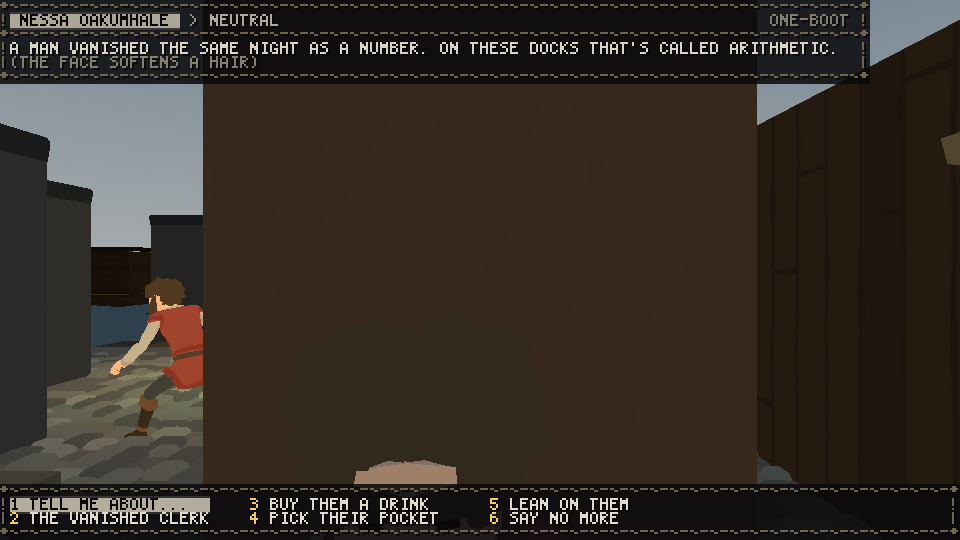
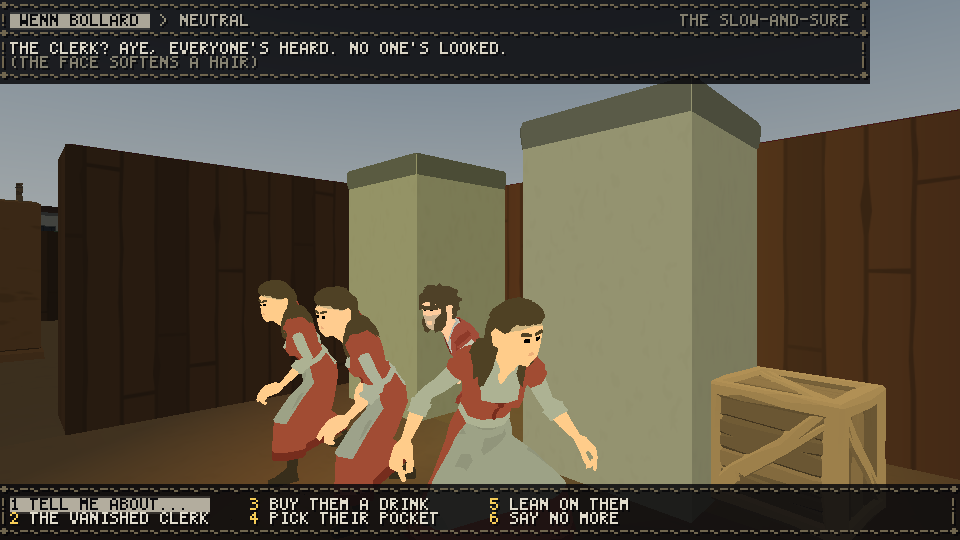
wip(voice): the six frames reshot off the gated b18c58de exe, and the README's honest bound rewritten from the numbers -- what the two declared defects actually were, what composes the shots now, and the two population moves (the crowd through the player, the ward hold) left declared for the lane th

diff --git a/docs/frames/voice/README.md b/docs/frames/voice/README.md
@@ -1,10 +1,13 @@
 # The street talks
 
 Every frame in here is the real `dist\granadad.exe` on the gated Windows build (branch
-`lane/voice`, commit `36411ac4`), playing the voice channel through the real verbs. Nothing
-is staged. Each run prints a summary line next to the picture
-(`voice end=... beats=n/N ... key=... speaker="..." row="..."`) and the exact line that shot
-each frame is in the table. A run that fell short says so and can't pass as one that didn't.
+`lane/voice`, commit `b18c58de`, with wip's street senses, kit and pull pack merged under it),
+playing the voice channel through the real verbs. Nothing is staged. Each run prints a summary
+line next to the picture (`voice end=... beats=n/N ... key=... speaker="..." row="..."
+inview=yes|no apart=T.T`) and the exact line that shot each frame is in the table. A run that
+fell short says so and can't pass as one that didn't. `inview` is the frame's own proof: the
+body the frame is about is inside the field of view at the shutter, with a clear lens line and
+nobody drawn in the way; `apart` is how far off it is, in tiles. The suite pins both.
 
 You said it on the 10th. "I'd expect the watch and crowd to react appropriately to the violence
 they're witnessing." And the Oblivion thing where talking to somebody feels like talking to a
@@ -22,12 +25,12 @@ commit `fdbd177b`). They aren't part of this set and they weren't reshot.
 
 | frame | line | what it shows |
 | --- | --- | --- |
-| `voice-pass-960x540.png` | `--voice=pass` | A serf walks by on the Tarwalk at four in the afternoon. The smoke's own walk west from the spawn until somebody passes within talk reach, then the walk turns to look at her. `PETRA BARNACRE: CRANE LINE IS MOVING. STAND CLEAR OF IT.` sits on the voice row above the health bar, her name in the body accent and the row in dim ink, on one plate. Nobody pressed E. The crosshair still names her (`PETRA BARNACRE  SERF  E - TALK`) so the line and the prompt agree on who spoke. |
-| `voice-overheard-960x540.png` | `--voice=overheard` | Two bodies talking to each other, overheard from the street. Held at the spawn, then walked, until two people standing together within six tiles and a sight line get heard, and the walk turns to look at them. Three serfs by the Eel-Pots, and one side of the exchange in the speaker's own trade. `QUENNA GROYNE: ...BONDSWORN BY THE SPRING IF THE LANES STAY SHUT. MARK ME...` (`overheard.serf`). |
-| `voice-farewell-960x540.png` | `--voice=farewell` | The goodbye. The `--street` placement beside a rope hand, the talk key, then LEAVE by its own topic. The panel closes and `LISBET HEMPSON: GO ON. THE CRANE LINE WILL NOT WAIT FOR EITHER OF US.` is on the voice row (`farewell.serf`). Her greeting has stood down off the alert row, so the goodbye is the last thing she said. |
-| `voice-moved-960x540.png` | `--voice=moved` | The worded reaction. Same placement, then THE VANISHED CLERK heard out, which warms her a hair. The panel's dateline row reads `(THE FACE SOFTENS A HAIR)` under her reply, dim, for four seconds. Never a number. She holds still and faces you for the talk. |
-| `voice-react-960x540.png` | `--voice=react` | A witness to a tap in the Gull at eight. Walk to the bar, tap the nearest patron until it connects (the `--punch` beat), and the room says what it saw. The one you hit joins the fight on the alert row in his own words (`brawl.join`, from the feel build). A patron who saw it (the sim's three clause witness rule put `Struck` on his memory) speaks on the voice row in his own trade's mouth. `CAPTAIN IVO WAKE: KNIVES CHECKED AT THE DOOR, AND STILL THIS.` (`react.maritime.struck`). The shot turns to the witness. Bouncers never take this row, their ladder speaks for them. |
-| `voice-watch-960x540.png` | `--voice=watch` | The Watch approach readback. The feel build's `--watch-halt=halt` line up to the halt (steel up in Cull's sight, a swing at a patron, Cull Closing on VIOLENCE with `watch.halt` on the alert row), then his next word on the voice row a breath later as he crosses the room. `WATCHMAN CULL: PUT YOUR HANDS DOWN. DOWN. I WILL NOT SAY IT A THIRD TIME.` (`watch.approach.violence`). The halt is still up under it. It's the halt, extended. |
+| `voice-pass-960x540.png` | `--voice=pass` | A serf walks by on the Tarwalk at four in the afternoon. The smoke's own walk west from the spawn until somebody passes within talk reach, then the walk turns to look at her. `PETRA BARNACRE: QUARTER-DAY'S KINGSDAY. DON'T REMIND ME.` sits on the voice row above the health bar, her name in the body accent and the row in dim ink, on one plate. Nobody pressed E. The crosshair still names her (`PETRA BARNACRE  SERF  E - TALK`) so the line and the prompt agree on who spoke. |
+| `voice-overheard-960x540.png` | `--voice=overheard` | Two bodies talking to each other, overheard from the street. Held at the spawn, then walked, until two people standing together within six tiles and a sight line get heard, and the walk turns to look at them. A pair of serfs by the sacks on the Tarwalk, and one side of the exchange in the speaker's own trade. `JESSA GUTTERLINE: ...NO SHIPMENTS, NO SHIFTS. NO SHIFTS, NO PENNY. THAT'S THE SUM...` (`overheard.serf`). |
+| `voice-farewell-960x540.png` | `--voice=farewell` | The goodbye. The `--street` placement by a rope hand at her pitch on the Quayside, the talk key, then LEAVE by its own topic. The panel closes and `WENN BOLLARD: BACK TO THE ROPES. MIND THE PLANKS.` is on the voice row (`farewell.serf`). Her greeting has stood down off the alert row, so the goodbye is the last thing she said. She is two and three quarter tiles off, head and shoulders in the frame, her crew at the pitch behind her, nobody in the lens. |
+| `voice-moved-960x540.png` | `--voice=moved` | The worded reaction. Same placement, then THE VANISHED CLERK heard out, which warms her a hair. The panel's dateline row reads `(THE FACE SOFTENS A HAIR)` under her reply, dim, for four seconds. Never a number. She is standing at her post because that is her work, not because the talk holds her: the WardActor hold is still deferred (below). |
+| `voice-react-960x540.png` | `--voice=react` | A witness to a tap in the Gull at eight. Walk to the bar, tap the nearest patron until it connects (the `--punch` beat), and the room says what it saw. The one you hit joins the fight on the alert row in his own words (`brawl.join`, from the feel build). A patron who saw it (the sim's three clause witness rule put `Struck` on his memory) speaks on the voice row in his own trade's mouth. `CAPTAIN IVO WAKE: STEADY. STEADY. THAT'S A PERSON, NOT A BALE.` (`react.maritime.struck`). The shot turns to the witness, three tiles off in the middle of the frame. Bouncers never take this row, their ladder speaks for them. |
+| `voice-watch-960x540.png` | `--voice=watch` | The Watch approach readback, and the reveal. Into the Gull at eleven, across the taproom from Cull's stool -- five tiles, the far end of the row north of the tables, a stand chosen so the lens has him and the floor he will cross -- and the blade drawn (one tap of the Attack key with nobody in reach: steel in a raised hand, cause on its own, no swing). He goes Closing on VIOLENCE with `watch.halt` on the alert row, walks the row at you, and at reach his readback REPLACES the halt: `WATCHMAN CULL: DROP IT. YOU'RE DONE WITH IT, WHETHER YOU KNOW THAT YET OR NOT.` (`watch.approach.violence.steel`, the steel key because steel is up). The lens is on him the step the row lands and again after its fade: he is under three tiles off, centred, coming. STEEL UP on the stance row, the blade across the frame. One man, one line: the halt is gone the step the readback took the row. |
 
 ## The channel
 
@@ -42,7 +45,7 @@ Five channels, ranked. A higher one replaces a lower one on the row. A lower one
 
 | channel | what fires it | keys | cooldown |
 | --- | --- | --- | --- |
-| watch | a watchman's eyes on you crouched or with your hands up, a watchman passing somebody the post has heard of (heat 24 and up) or has paper on, the deference table to a presented Wielder, and the readback as a Closing watchman crosses the room after his halt | `watch.notice` `watch.heat` `watch.paper` `watch.wielder` `watch.approach.<violence\|paper\|goods>` | 5 s on the channel, 20 s per watchman. The readback fires 45 steps after the halt and again at reach |
+| watch | a watchman's eyes on you crouched or with your hands up, a watchman passing somebody the post has heard of (heat 24 and up) or has paper on, the deference table to a presented Wielder, and the readback as a Closing watchman crosses the room after his halt | `watch.notice` `watch.heat` `watch.paper` `watch.wielder` `watch.approach.<violence\|paper\|goods>` | 5 s on the channel, 20 s per watchman. The readback waits for his halt to leave the alert row, or replaces it at reach (two tiles) once the halt has had its second |
 | react | a witness's memory moving with Struck, DrewSteel or Slew on it (`SocialLedger::witness`, read by comparing public state, same shape as `lastPlayerHp_`). Never the man in the fight, never a bouncer (his ladder speaks for him), never the Closing watchman (his halt does) | `react.<family>.<struck\|steel\|slew>` | 4 s on the channel, 15 s per witness. A witness who couldn't get the row keeps the right for 4 s |
 | farewell | LEAVE by its topic, the back key, or walking off past five tiles mid talk | `farewell.<type>.<attitude>` and `farewell.away.<family>` | none, it's an event |
 | pass | the nearest body within two tiles that hasn't spoken to you lately, once | `pass.<type>.<attitude>` | 12 s on the channel, 2 min per mouth |
@@ -80,15 +83,18 @@ met him.
 
 ## The honest bound
 
-Your swing only reaches the Gilded Gull's roster today. WardActor combat sheets are deferred by
-ruling (COMBAT-ACTION-SPEC.md section 10), so a street body has no blow to witness. `react.*` is
-proven on the Gull's witnesses and the street half is declared. The same tables and the same
-emitter fire the day a street body can be hit, which is the STREET SENSES lane's declared
-population move. Two more things aren't built here, said plainly. `watch.notice`, `watch.heat` and
-`watch.paper` are a street watchman's word as you pass, and nothing follows them on the street
-because the street Watch has no arrest by ruling. `rumor.<family>` stocks WHAT THE WARD SAYS in a
-trade's own mouth, but no hashed event ring feeds it yet (roadmap item 17), so it's authored
-breadth, not the world's news. And a third, the critic's own catch: `overheard`'s street bodies
+Your swing reaches a street body now (STREET SENSES leg (b), merged under this lane) and the
+street Watch closes on a blow he sees and arrests at reach (leg (c)) -- and the street's own
+reaction to a blow is that lane's, on the alert row: the scatter, `street.routed`, the watchman's
+`street.halt`. `react.*` on the voice row still reads the Gull's ledger and nothing else: a
+street witness has no memory row for the emitter to compare, so the witness's WORD is proven on
+the Gull's roster and the street half of it is declared, the same tables and the same emitter
+the day the ward carries a ledger. Two more things aren't built here, said plainly.
+`watch.notice`, `watch.heat` and `watch.paper` are a street watchman's word as you pass, before
+anything; what follows on the street is leg (c)'s -- a demand for a raised blade with its grace,
+the close on a blow -- not these rows'. `rumor.<family>` stocks WHAT THE WARD SAYS in a trade's
+own mouth, but no hashed event ring feeds it yet (roadmap item 17), so it's authored breadth, not
+the world's news. And a third, the critic's own catch: `overheard`'s street bodies
 share `paletteOf(sim::WardType)` (`native/src/render/session.cpp`), which colours a coat, trousers
 and skin by TYPE and not by the actor -- three serfs standing together are three copies of the
 same serf. There is no per-body knob to turn; fixing it means threading an actor id through
@@ -96,33 +102,72 @@ same serf. There is no per-body knob to turn; fixing it means threading an actor
 themselves, which is a wider change than a camera-and-placement pass should carry. Declared here
 rather than patched around.
 
-Two more, found by this same critic's round and tried, not fixed. Said plainly rather than
-papered over: **the `watch` showcase's reveal shot.** `voice-watch-960x540.png`'s own line lands
-clean (four beats, the right key, the right words), but the camera turning to Cull as he crosses
-the room can end up looking into a wall-mounted shelf (`render3d/static_pieces.cpp`'s hash-placed
-decor, not in the tile-solidity grid `TileQuery::lineOfSight` reads) instead of at him. A tile-LOS
-wait was tried, then a measured bearing-arc wait in its place; both broke the pinned "ONE MAN, ONE
-LINE" invariant (`test_street_voice.cpp`'s watch case) instead of fixing the shot -- any extra idle
-time between the voice-row event and the turn gives the street a chance to speak through `say()`
-again before the halt's own alert clock this test pins ever reaches zero, confirmed empirically (a
-fresh bark, then a bystander's own `react.*` line, both stepping on state this branch doesn't own)
-rather than assumed. Reverted to firing the turn on the voice-row event alone, which is what the
-suite already holds correct; the reveal shot's own framing stays open for a pass that can afford to
-touch more of the Watch's state machine than a render-side wait can reach.
+Two more the critic's round found, and this pass ran to ground rather than around. Both were
+"the frame is not of the speaker", and both had been tried twice from the camera's side and
+declared. Neither was a camera problem.
 
-**Near-camera clipping at the outdoor "rope hand" placement.** `voice-farewell`, `voice-moved`, and
-(less severely) `voice-pass` all place the camera on a working stretch of the Tarwalk where dockers
-walk close together -- a second body's head can pass close enough to the lens to fill the bottom of
-the frame. A two-pass crowding filter at PLACEMENT time (`standTileIsCrowded`, rejects a stand tile
-with another visible body within a tile of it) and a re-aim at the target's CURRENT position right
-before the shot (instead of the stale aim taken at placement, which could be tens of steps stale by
-the time farewell/moved's own beats land) were both tried. Neither closed it: a fresh capture after
-both fixes still shows the same clipped head in the same frames. This reads as a structural
-property of a genuinely busy street corner, not a placement bug this pass's tools can isolate --
-`voice-pass` shows a milder version of the same thing without ever having been flagged, which
-suggests the corridor itself, not any one body's position, is what wants a wider fix (a different
-stand tile entirely, or a minimum-radius push against ALL bodies rather than a two-pass filter that
-only checks the moment of placement). Declared here rather than patched around a second time.
+**The watch reveal was a picture of a table, not a shelf.** The old drive borrowed the feel
+build's `--watch-halt` placement (stand beside a patron and swing) with the mark "farthest from
+Cull with his line of sight", and in a room this size that was Wick Hempson's stool at (150,70):
+the pocket between the taproom's two tables, (148,69) and (151,69), two tiles from Cull. The
+turn to Cull looked into the west face of the table at (151,69). The sim had said he could see
+the player from there, and the sim was right by its own rule: `TileQuery::lineOfSight` walks
+between two TILE CENTRES and lets a ray through a lattice corner when only one of the two cells
+it grazes is solid -- the right rule between people. A camera sits at a Q8 point and draws every
+solid cell as a block, and the block was in the way. The two rules are now two functions:
+`render::cameraSightClear` (`session.cpp`) walks the exact segment from the eye to the body,
+every cell it enters asked of `solid()`, a corner shut if EITHER grazed cell is, down the middle
+and a quarter tile either side. `test_street_voice.cpp` holds the two against each other on that
+table: the sim says seen, the lens says wall. And the reveal has its own drive now
+(`runWatchRevealLine`): every free floor cell of the taproom Cull can see by his rule and the
+lens can see him from -- and can see the last three tiles of the route the room's own router
+draws from his stool to it -- ranked farthest first. Five tiles, the far end of the row north of
+the tables. Steel up there, no mark to swing at (a blade in a raised hand is cause on its own,
+`Tavern::violenceInView`'s own sentence), and he crosses the room. The turn goes the step the
+readback lands and again after its fade -- the same two steps the row-then-turn order spent, so
+the ONE MAN, ONE LINE window the suite pins is exactly as wide as it was, and nothing else gets
+a step to speak into. The `--watch-halt` line itself is untouched; it wanted the arrest, and its
+mark beside Cull is right for that.
+
+**The rope hand's frames were the lens in her hair, and then the corridor.** Three things,
+found with the sim's own numbers rather than guessed. First, the stand was the tile BESIDE her,
+and at one tile a person is under the frame: the eye stands a tile and three quarters up
+(`kEyeHeightTilesQ8`), a serf's crown is a tile and a third or so, so at one tile the crown is
+a hand and a half under the horizon and the rest of her is under the bottom edge. Second, a
+ward body is DRAWN on a slide from its last tile to its current one over the second
+(`actor_instances.cpp`, the same fraction `wardSprites` uses), and the placement asked only
+where she IS; a body sliding out of the very tile the camera took was drawn through the lens.
+Third, `--street`'s search ran
+before the population had ticked once, when every body in the ward reads as standing still --
+no last tile, no leg drawn -- so "nobody near" was true of a stream of dockers about to walk
+through the stand. The old rope-hand tile, (54,65), was a one-wide lane along the crane post at
+(56-57,65) with Norrick Hookbourne's beat coming down it. `runStreetLine` now lets the crowd walk
+two seconds before it asks, and composes the stand: any standable, empty tile within the talk
+reach (two tiles) from which the key reaches THAT body and the lens has her whole, the farther
+the better; the body standing (last tile is this tile, and no leg to somewhere else); nobody
+else drawn within two tiles of the stand, their tile or the one they slide from, walkers counted
+two tiles further out for the breath between the placement and the shutter; under the open sky
+before under a storey. Four passes from that down to the bare question, so a trade with nowhere
+composed to stand still gets its line. Wenn Bollard at her pitch on the Quayside, two and three
+quarter tiles off, is what the composed pass found. And a body placed somewhere else leaves the
+street's last word behind it now: `Session::placeBodyAt` stands the voice row down with the
+crosshair and the room name (`snapViewAfterRelocation`), which a travel wanted as much as a
+placement -- the row over the new feet had been quoting the old street.
+
+**Declared, not built, and the next declared population moves.** Both of those are the frame's
+business, and the frame is right now. Two things under them are the ward's, and this lane does
+not move the population baseline (`0xDD3890042DD2B472` after the street senses' three consented
+legs): (a) THE CROWD WALKS THROUGH THE PLAYER. `WardPopulation`'s occupancy index is one body
+per cell and the player's cell is not in it, so a docker's beat goes through you on a one-wide
+quay; the composed stand keeps it out of these frames and nothing keeps it out of play. The fix
+is `tryEnter` refusing the pushed player's cell (`setPlayer` already carries it, hashed), with
+the blocked-step yield doing what it does behind any other body -- a hashed change to the gate's
+own violence leg, so a declared move with its twin run, not a hidden one. (b) THE WARD HOLD FOR
+THE TALK, as the Gull's roster has it (`Tavern::holdsForTalk`): the one you press E on stands
+and faces you until you leave. The walk-off close covers the body that walks; the Oblivion
+thing is that they don't. Same shape: a hold id pushed by the client, the held body skipping its
+step and facing the player, declared and re-blessed. Either belongs to the lane that next
+touches a `WardActor`.
 
 ## What the suite pins
 
@@ -131,9 +176,15 @@ dash in it. The learned word is in one priest's mouth and nobody else's (grepped
 the right way. The pick is pure and the emitter moves neither hash. LEAVE carries a goodbye out of
 a farewell table, the back key says one, and walking off throws one after you. The one you talk
 to in the Gull holds still. The worded reaction is never a number. Two pass lines are never closer
-than the cooldown. All six `--voice=` endings land every beat they owe. A hand built HudState
-without the row draws pixel identical. `test_dialogue.cpp` pins the sheet at 521 tables (393
-before this lane, plus the 128 listed below).
+than the cooldown. All six `--voice=` endings land every beat they owe, AND THE FRAME IS OF THE
+SPEAKER: at the shutter of every composed ending the body the frame is about is in the field of
+view with a clear lens line and nobody drawn in the way (`inview=yes` in the summary), the
+farewell and moved stands a diagonal off at the least (never the tile beside) and the talk
+reach at the most, the watch reveal's stand three tiles from Cull's stool at the least. The lens's line and the sim's
+are held against each other on the table at (151,69). A placed body leaves the street's last
+word behind it. A hand built HudState without the row draws pixel identical. `test_dialogue.cpp`
+pins the sheet at 539 tables (393 before this lane, the 142 listed below, and the street
+senses' 4).
 
 
 ## Every row, for the redline
